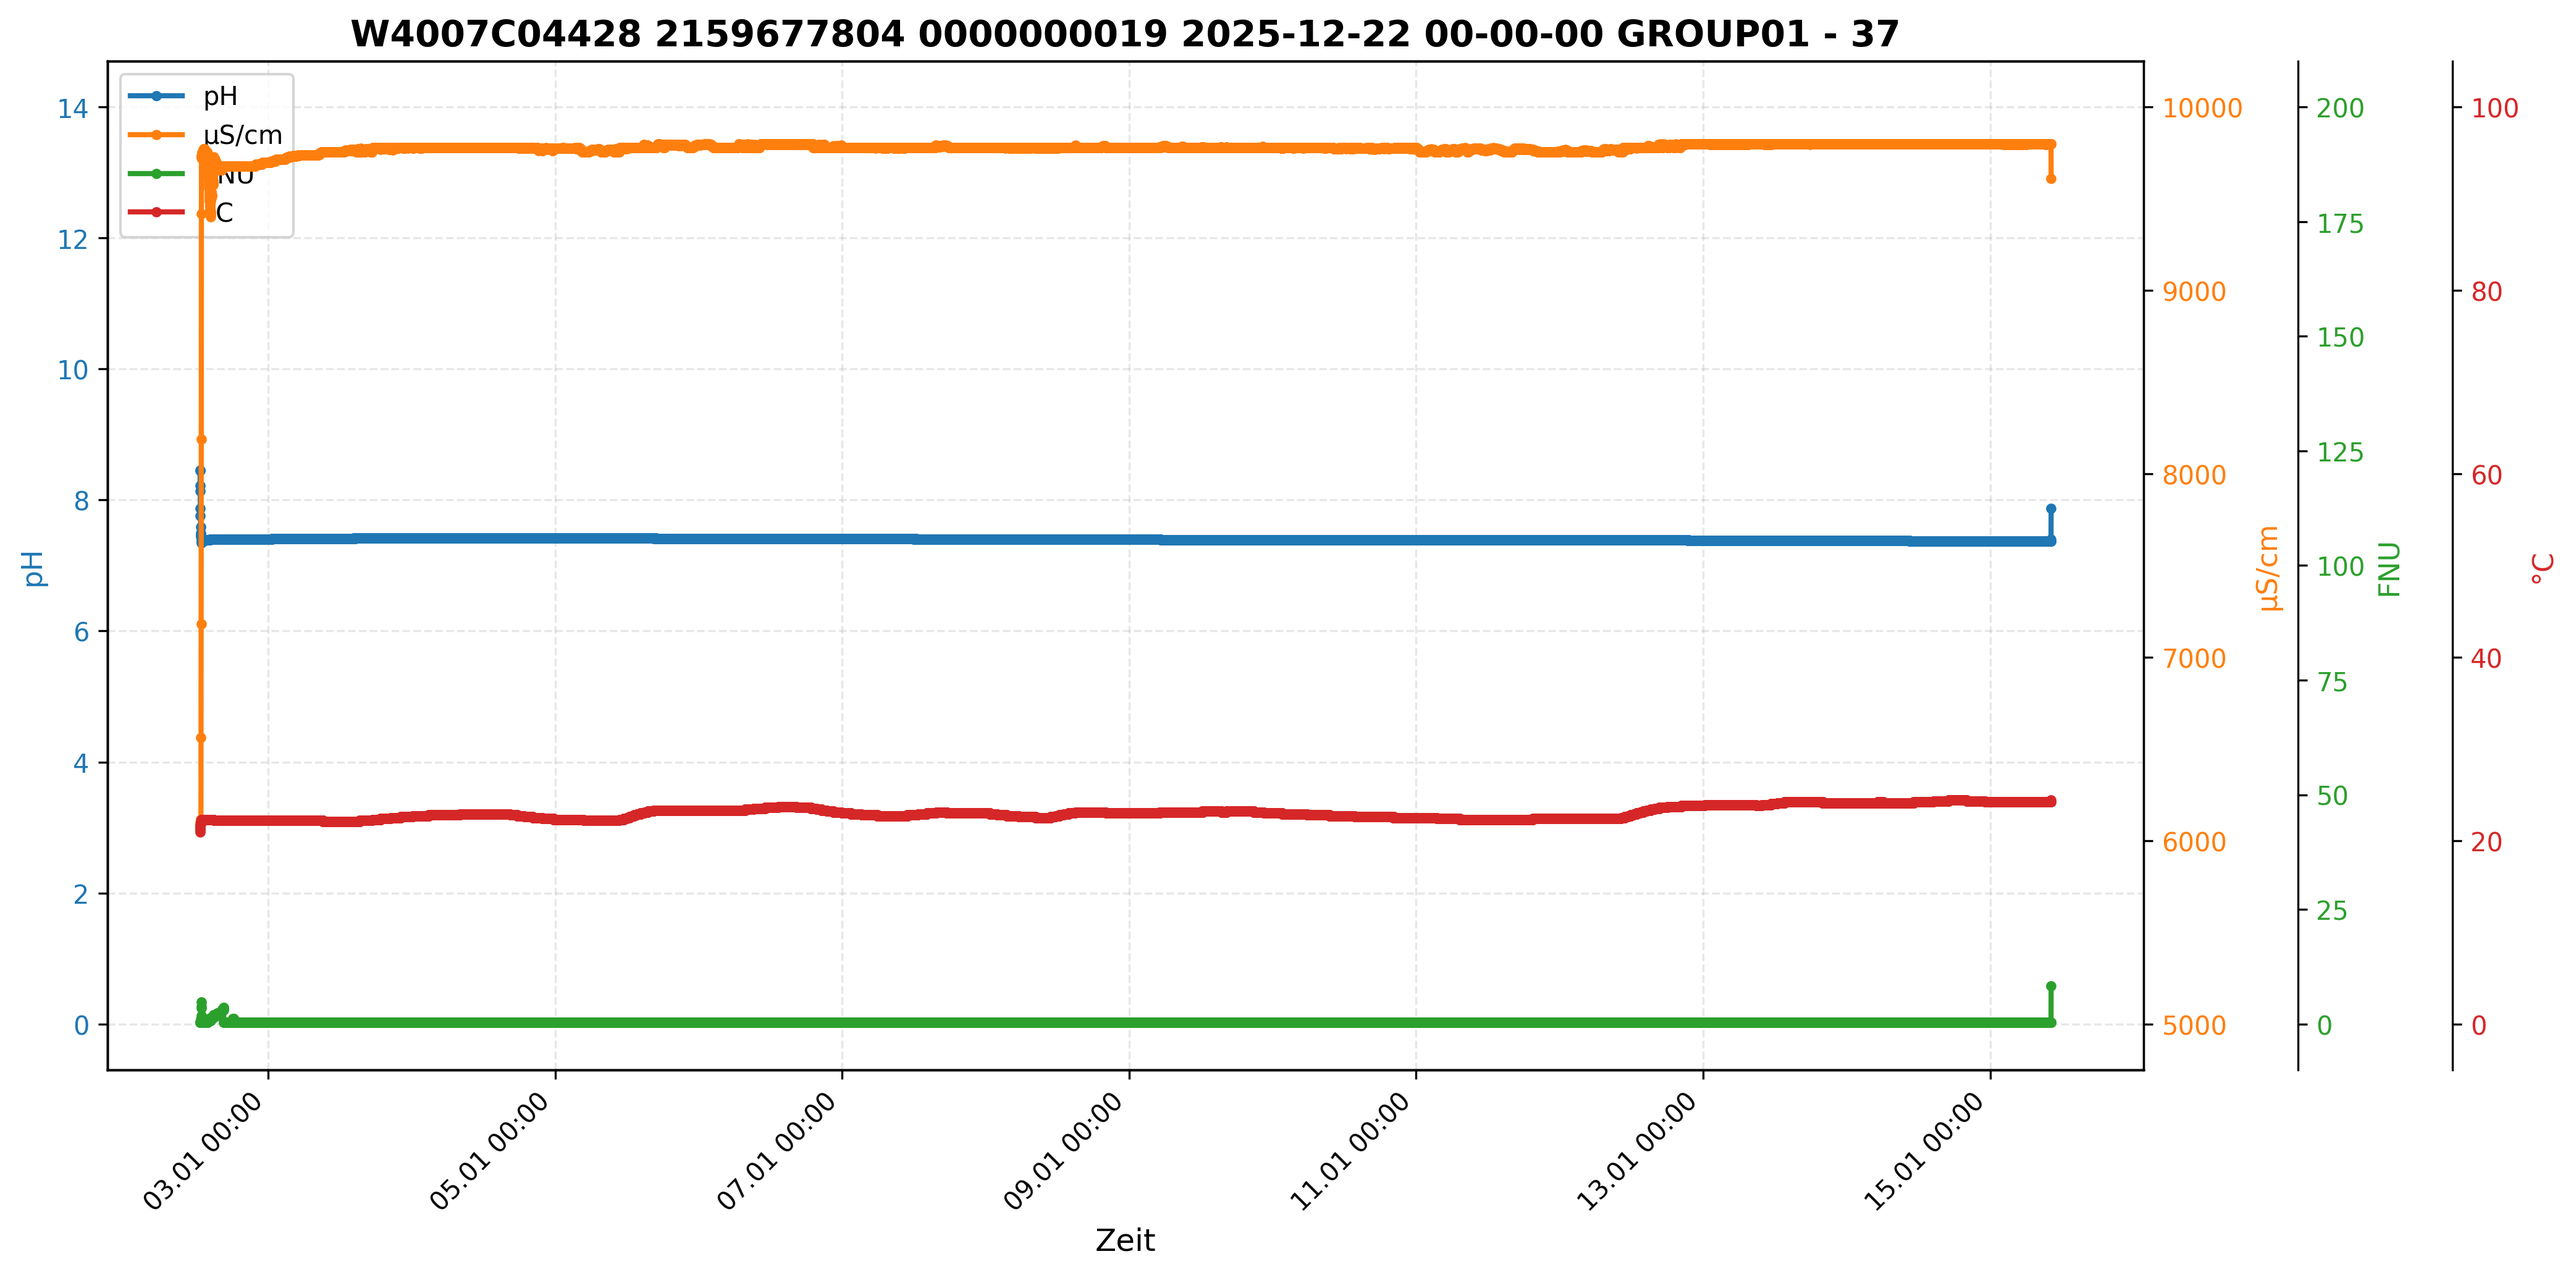
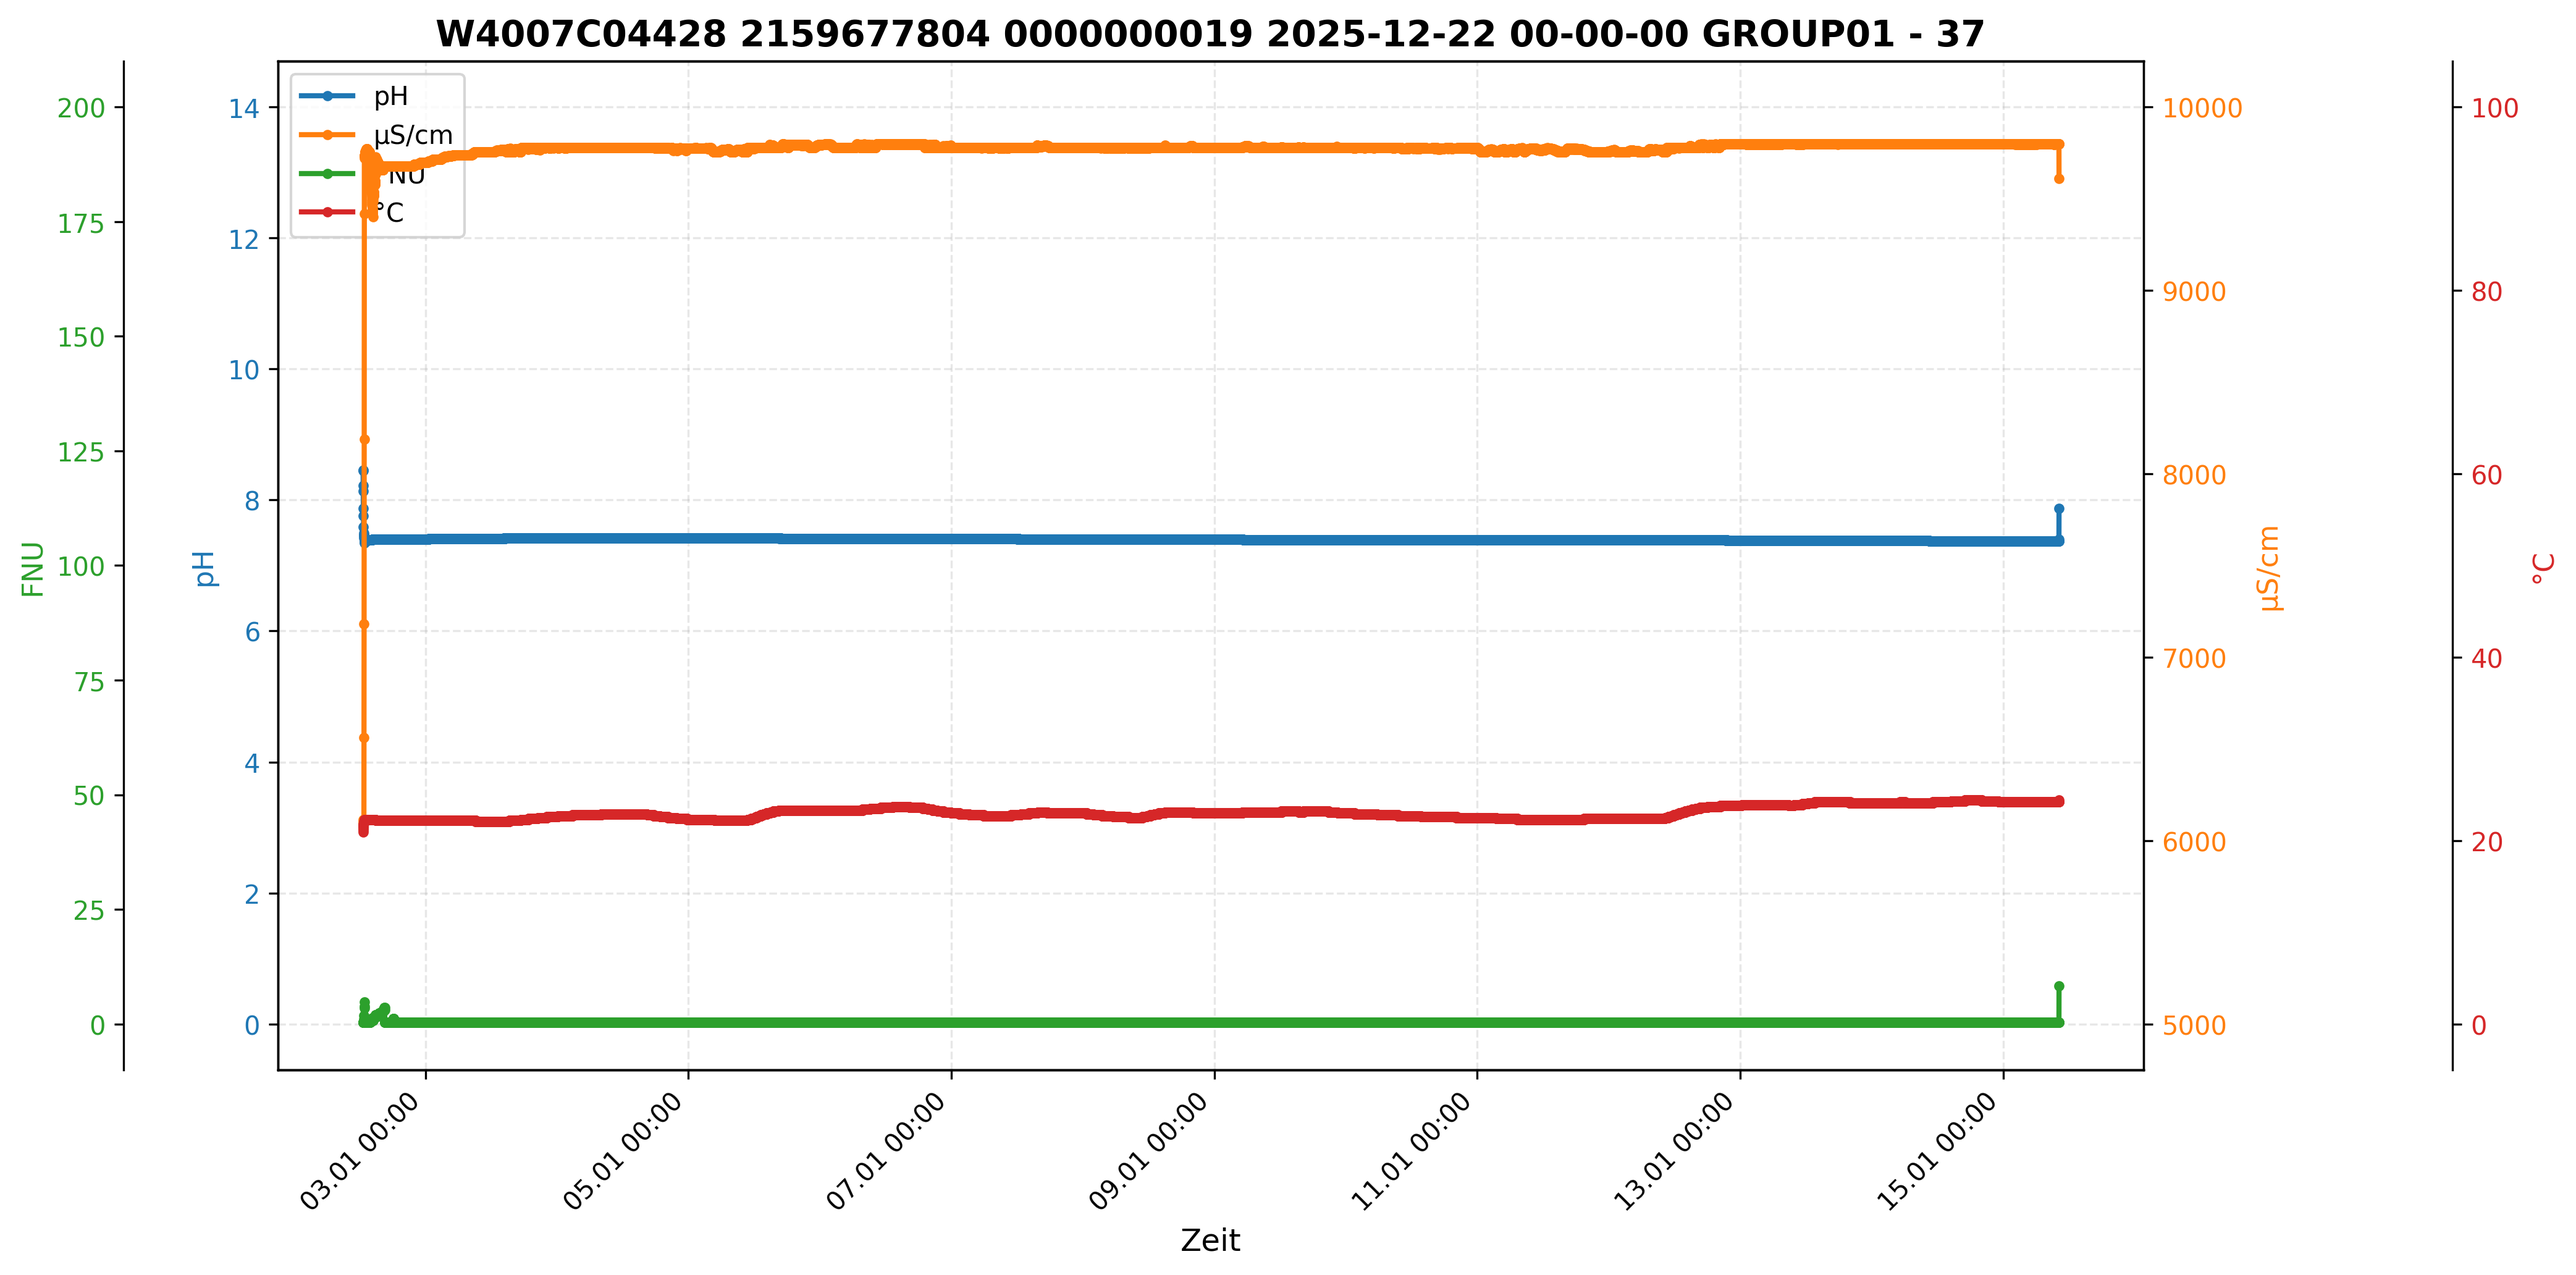
2 achsen LiRe

diff --git a/graph.py b/graph.py
@@ -121,24 +121,39 @@ def create_line_chart(excel_file, output_dir='graphs'):
         lines = []    # Zur Sammlung aller Linien für die Legende
         
         # Für jede numerische Spalte eine Linie zeichnen
+        # Layout: 2 Achsen links, 2 rechts (idx 0,2 = links; idx 1,3 = rechts)
         for idx, (col_name, col_data) in enumerate(numeric_data.items()):
             color = COLORS[idx % len(COLORS)]
             
             if idx == 0:
-                # Erste Datenreihe auf der linken Achse
+                # Erste Datenreihe auf der linken Achse (Hauptachse)
                 ax = ax1
                 ax.set_xlabel('Zeit', fontsize=12)
                 ax.set_ylabel(col_name, fontsize=11, color=color)
                 ax.tick_params(axis='y', labelcolor=color)
-            else:
-                # Zusätzliche Achsen rechts hinzufügen
+            elif idx == 1:
+                # Erste rechte Achse
                 ax = ax1.twinx()
-                
-                # Achse nach rechts verschieben (offset)
+                ax.set_ylabel(col_name, fontsize=11, color=color)
+                ax.tick_params(axis='y', labelcolor=color)
+                axes.append(ax)
+            elif idx == 2:
+                # Zweite linke Achse
+                ax = ax1.twinx()
+                # Verstecke die rechte Spine, zeige die linke Spine
+                ax.spines['right'].set_visible(False)
+                ax.spines['left'].set_position(('outward', 60))
+                ax.yaxis.set_label_position('left')
+                ax.yaxis.tick_left()
+                ax.set_ylabel(col_name, fontsize=11, color=color)
+                ax.tick_params(axis='y', labelcolor=color)
+                axes.append(ax)
+            else:  # idx >= 3
+                # Weitere rechte Achsen
+                ax = ax1.twinx()
                 ax.spines['right'].set_position(('outward', 60 * (idx - 1)))
                 ax.set_ylabel(col_name, fontsize=11, color=color)
                 ax.tick_params(axis='y', labelcolor=color)
-                
                 axes.append(ax)
             
             # Linie zeichnen
